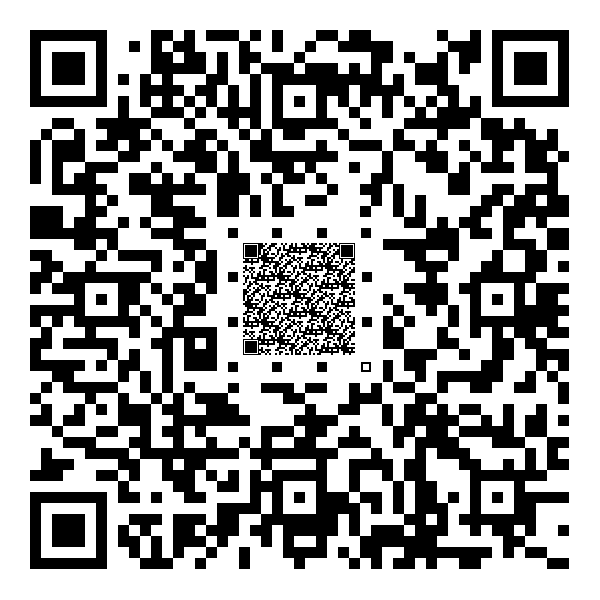
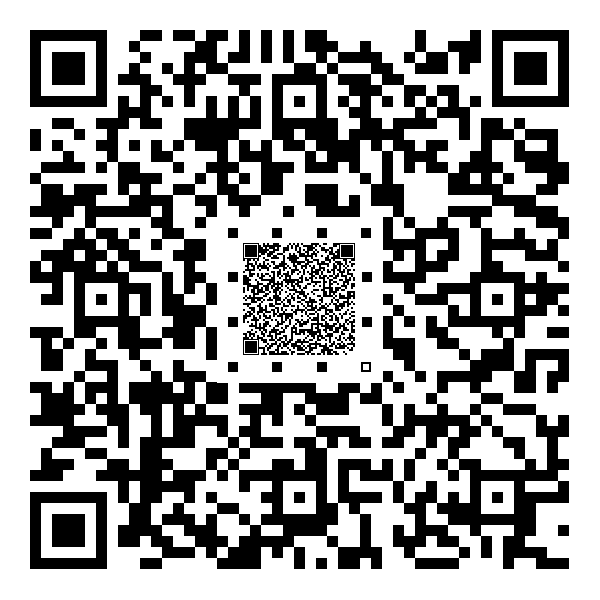
Feat(qr-core): restore pattern entropy

diff --git a/python-core/qr_center.py b/python-core/qr_center.py
@@ -5,23 +5,32 @@ Deterministic micro-pattern helpers used to draw the copy-sensitive graphic
 inside the QR center.
 """
 
+import hashlib
 import numpy as np
 from PIL import Image, ImageDraw
 
 
-def _bits_from_hex(hexstr: str) -> np.ndarray:
+def _expand_bits(sig_hex: str, needed_bits: int) -> np.ndarray:
     """
-    Convert hex string to a flat bit array for deterministic rendering.
+    Expand a hash digest into a deterministic bitstream.
 
     Args:
-        hexstr: Hex string derived from a token hash.
+        sig_hex: Hex string derived from a token hash.
+        needed_bits: Number of bits required by the pattern grid.
 
     Returns:
-        Numpy array of 0/1 bits.
+        Numpy array of 0/1 bits with length needed_bits.
     """
-    b = bytes.fromhex(hexstr)
-    bits = np.unpackbits(np.frombuffer(b, dtype=np.uint8))
-    return bits
+    blocks = []
+    counter = 0
+    while len(blocks) * 256 < needed_bits:
+        payload = f"{sig_hex}:{counter}".encode("utf-8")
+        digest = hashlib.sha256(payload).digest()
+        blocks.append(np.unpackbits(np.frombuffer(digest, dtype=np.uint8)))
+        counter += 1
+
+    bits = np.concatenate(blocks)
+    return bits[:needed_bits]
 
 
 def generate_micro_qr_pil(
@@ -57,11 +66,8 @@ def generate_micro_qr_pil(
     margin = quiet + max(0, (inner_size - used_size) // 2)
 
     # Expand bits to fill the full module grid deterministically.
-    bits = _bits_from_hex(sig_hex)
     needed = actual_modules * actual_modules
-    if bits.size < needed:
-        reps = (needed + bits.size - 1) // bits.size
-        bits = np.tile(bits, reps)[:needed]
+    bits = _expand_bits(sig_hex, needed)
 
     idx = 0
     for r in range(actual_modules):

diff --git a/python-core/qr_decoder.py b/python-core/qr_decoder.py
@@ -218,6 +218,12 @@ def extract_center_pattern_variants(
         width_b = np.linalg.norm(rect[1] - rect[0])
         height_a = np.linalg.norm(rect[1] - rect[2])
         height_b = np.linalg.norm(rect[0] - rect[3])
+        top_edge = rect[1] - rect[0]
+        angle = abs(np.degrees(np.arctan2(top_edge[1], top_edge[0])))
+        max_dim = max(width_a, width_b, height_a, height_b, 1.0)
+        aspect_skew = abs(width_a - height_a) / max_dim
+        use_axis = angle < 5.0 and aspect_skew < 0.05
+
         size = int(max(width_a, width_b, height_a, height_b))
         size = max(size, expected_size_px + 20)
         dst = np.array(
@@ -258,6 +264,9 @@ def extract_center_pattern_variants(
             patterns.append(
                 ("warp", _extract_center_from_region(warped, scaled_expected))
             )
+
+        if use_axis:
+            patterns.append(("axis", extract_center_pattern(image_bgr, expected_size_px)))
 
     # Only fall back to axis crop when warp-based extraction is unavailable.
     if not patterns:
